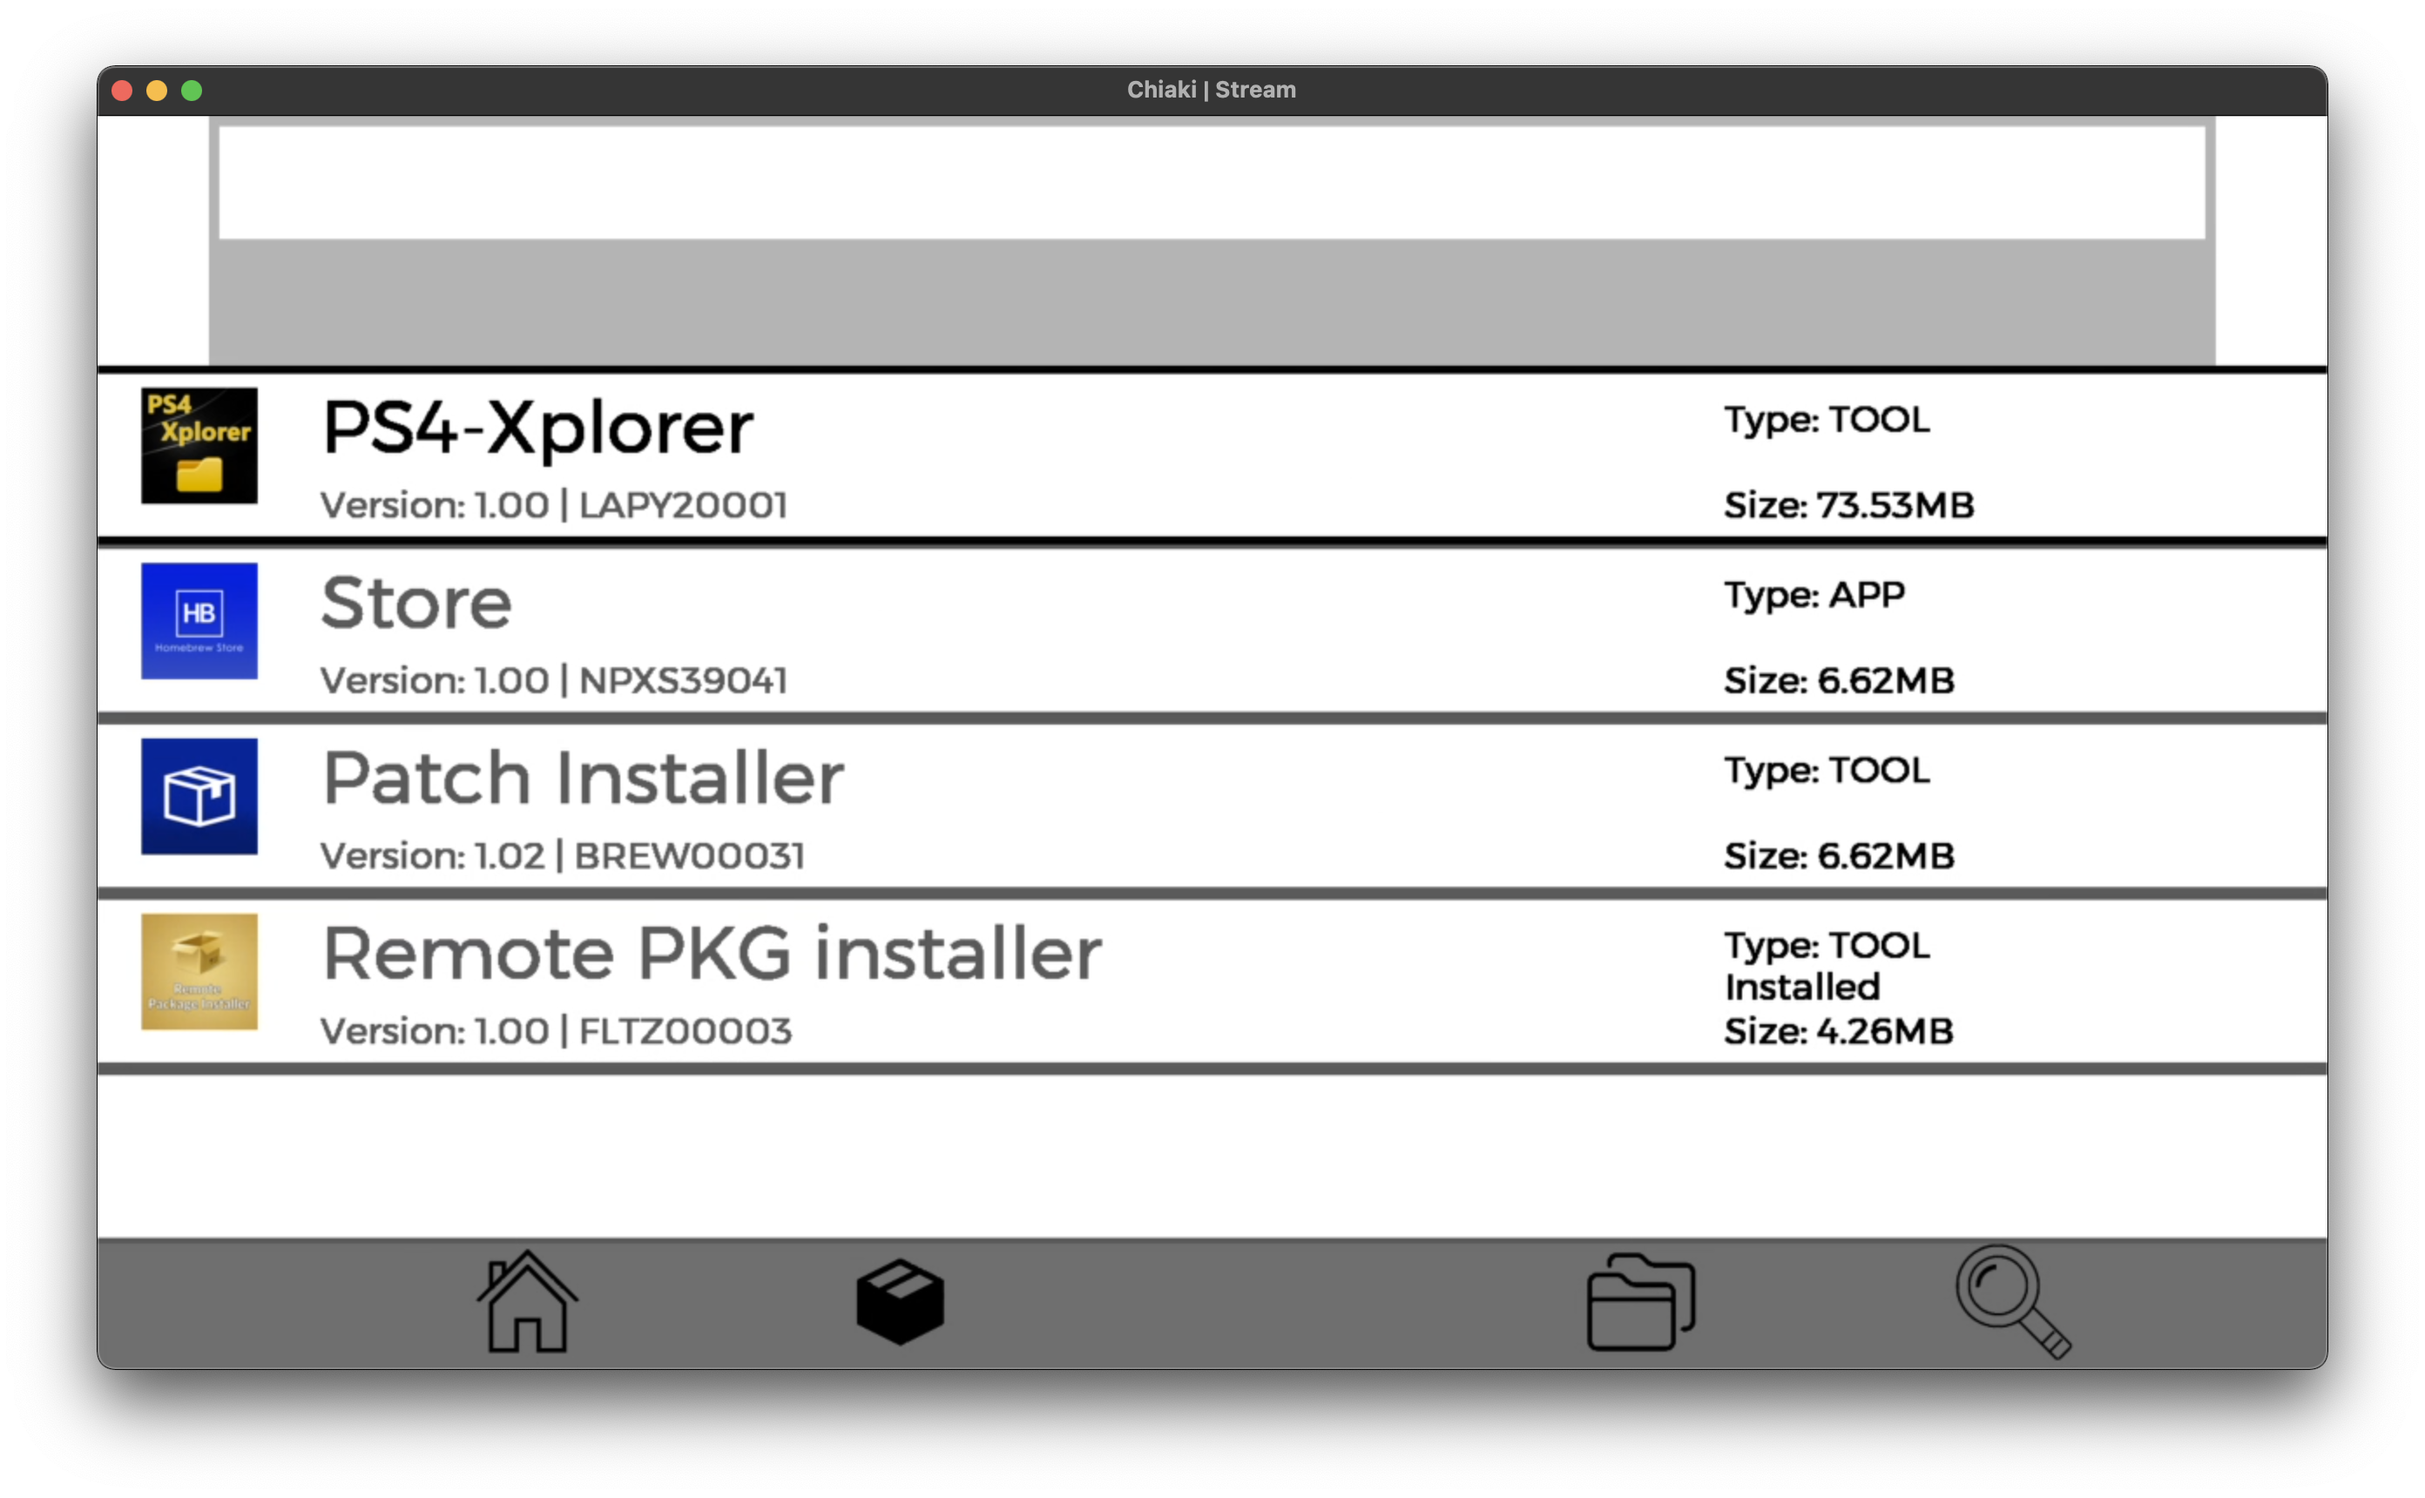
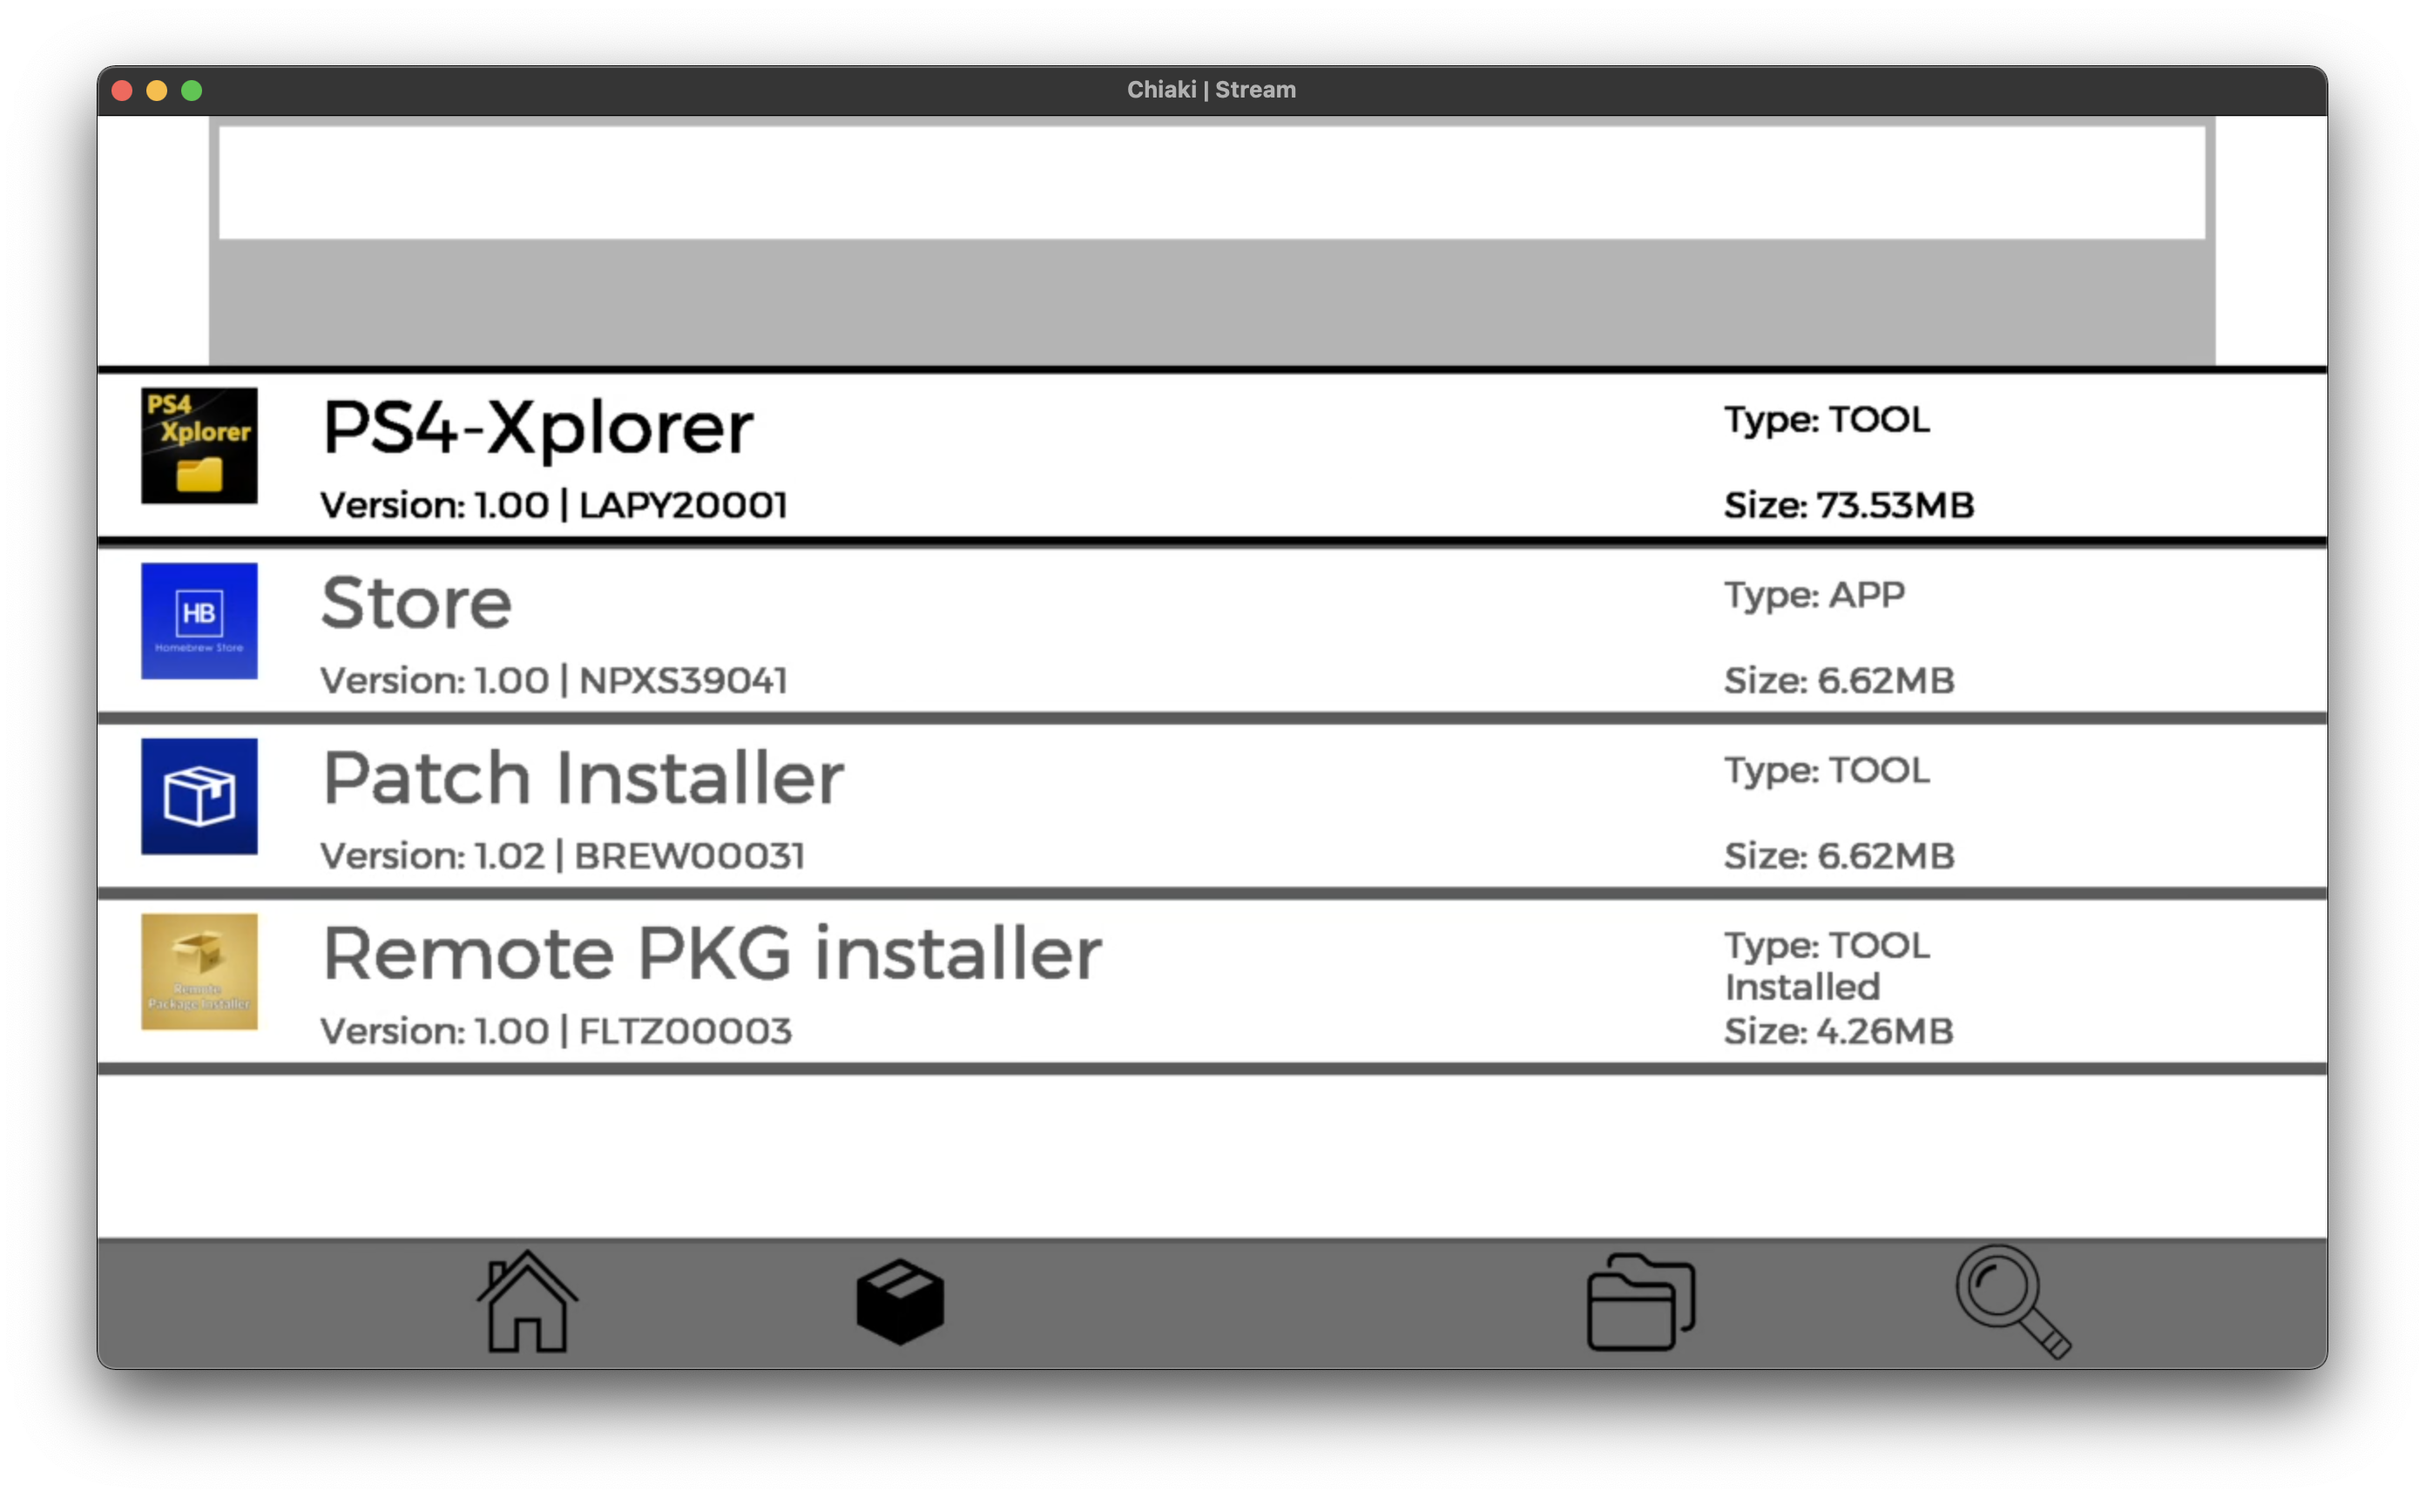
Updated Text Colors and screenshots

diff --git a/src/view/repoPackageList.cpp b/src/view/repoPackageList.cpp
@@ -94,17 +94,17 @@ void repoPackageList::updateView() {
             mainScene->DrawRectangle(0, packageRectangle.y + packageRectangle.height / 2 - rectangleDivisorHeight / 2, packageRectangle.width, rectangleDivisorHeight, textColor);
             if(currPackage != nullptr){
                 mainScene->DrawText((char *) std::string(currPackage->getName()).substr(0,PKGLIST_CHARACTER_LIMIT).c_str(), fontMedium, packageRectangle.x, packageRectangle.y,
-                                    selectedColor, textColor);
+                                    textColor, textColor);
                 printStr = "Type: ";
                 printStr+=TypeStr[currPackage->getPackageType()];
                 mainScene->DrawText((char *) printStr.c_str(), fontSmall, packageTypeX, packageRectangle.y- 1 * packageRectangle.height / 8,
-                                    selectedColor, selectedColor);
+                                    textColor, textColor);
                 printStr = "Version: ";
                 printStr += currPackage->getVersionStr();
                 printStr += " | ";
                 printStr += currPackage->getTitleID();
                 mainScene->DrawText((char *) printStr.c_str(), fontSmall, packageRectangle.x, packageRectangle.y + 3 * packageRectangle.height / 8,
-                                    selectedColor, textColor);
+                                    textColor, textColor);
                 if(currPackage->isInstalled()) {
                     if(currPackage->getVersion()>currPackage->getCurrVer()) {
                         printStr = "Update Available ";
@@ -115,12 +115,12 @@ void repoPackageList::updateView() {
                         printStr = "Installed";
                         printStr += currPackage->getSFOType();
                         mainScene->DrawText((char *) printStr.c_str(), fontSmall, packageTypeX, packageRectangle.y+ 1 * packageRectangle.height / 8,
-                                            selectedColor, selectedColor);
+                                            textColor, textColor);
                     }
                 } else if(strlen(currPackage->getSFOType())>1) {
                     printStr = currPackage->getSFOType();
                     mainScene->DrawText((char *) printStr.c_str(), fontSmall, packageTypeX, packageRectangle.y+ 1 * packageRectangle.height / 8,
-                                        selectedColor, selectedColor);
+                                        textColor, textColor);
                 }
                 currPackage->getIcon()->Draw(mainScene, repoIconX, packageRectangle.y - 3 * packageRectangle.height / 8);
                 printStr = "Size: ";
@@ -128,7 +128,7 @@ void repoPackageList::updateView() {
                 printStr += "MB";
                 mainScene->DrawText((char *) printStr.c_str(), fontSmall, packageTypeX,
                                     packageRectangle.y + 3 * packageRectangle.height / 8,
-                                    selectedColor, selectedColor);
+                                    textColor, textColor);
             }
         }
     }
@@ -155,7 +155,7 @@ void repoPackageList::updateView() {
             printStr += currPackage->getTitleID();
             mainScene->DrawText((char *) printStr.c_str(), fontSmall,
                                 packageRectangle.x, packageRectangle.y + 3 * packageRectangle.height / 8,
-                                selectedColor, textColor);
+                                selectedColor, selectedColor);
             currPackage->getIcon()->Draw(mainScene, repoIconX, packageRectangle.y - 3 * packageRectangle.height / 8);
             if(currPackage->isInstalled()) {
                 if(currPackage->getVersion()>currPackage->getCurrVer()) {

diff --git a/src/view/packageSearch.cpp b/src/view/packageSearch.cpp
@@ -106,7 +106,7 @@ void packageSearch::updateView() {
             mainScene->DrawRectangle(0, packageRectangle.y + packageRectangle.height / 2 - rectangleDivisorHeight / 2, packageRectangle.width, rectangleDivisorHeight, textColor);
             if(currPackage != nullptr){
                 mainScene->DrawText((char *) currPackage->getName(), fontMedium, packageRectangle.x, packageRectangle.y,
-                                    selectedColor, textColor);
+                                    textColor, textColor);
                 printStr = "Version: ";
                 printStr += currPackage->getVersionStr();
                 printStr += " | ";
@@ -114,12 +114,12 @@ void packageSearch::updateView() {
                 printStr += " | ";
                 printStr += currPackage->getRepoName();
                 mainScene->DrawText((char *) printStr.c_str(), fontSmall, packageRectangle.x, packageRectangle.y + 3 * packageRectangle.height / 8,
-                                    selectedColor, textColor);
+                                    textColor, textColor);
                 printStr = "Type: ";
                 printStr += TypeStr[currPackage->getPackageType()];
                 mainScene->DrawText((char *) printStr.c_str(), fontSmall, packageTypeX,
                                     packageRectangle.y - 1 * packageRectangle.height / 8,
-                                    selectedColor, textColor);
+                                    textColor, textColor);
                 currPackage->getIcon()->Draw(mainScene, repoIconX, packageRectangle.y - 3 * packageRectangle.height / 8);
                 if(currPackage->isInstalled()) {
                     if(currPackage->getVersion()>currPackage->getCurrVer()) {
@@ -129,7 +129,7 @@ void packageSearch::updateView() {
                     } else {
                         printStr = "Installed";
                         mainScene->DrawText((char *) printStr.c_str(), fontSmall, packageTypeX, packageRectangle.y+ 1 * packageRectangle.height / 8,
-                                            selectedColor, textColor);
+                                            textColor, textColor);
                     }
                 }
                 printStr = "Size: ";
@@ -137,7 +137,7 @@ void packageSearch::updateView() {
                 printStr += "MB";
                 mainScene->DrawText((char *) printStr.c_str(), fontSmall, packageTypeX,
                                     packageRectangle.y + 3 * packageRectangle.height / 8,
-                                    selectedColor, textColor);
+                                    textColor, textColor);
             }
         }
     }

diff --git a/src/view/downloadView.cpp b/src/view/downloadView.cpp
@@ -224,27 +224,27 @@ void downloadView::updateView() {
                 }
                 currDownload->getIcon()->Draw(mainScene, repoIconX, repoRectangle.y - 3 * repoRectangle.height / 8);
                 mainScene->DrawText((char *) std::string(currDownload->getName()).substr(0,DOWNLOAD_NAME_CHARACTER_LIMIT).c_str(), fontMedium, repoRectangle.x, repoRectangle.y - 1 * repoRectangle.height/8,
-                                    selectedColor, textColor);
+                                    textColor, textColor);
                 mainScene->DrawText((char *) currDownload->getTitleID(), fontSmall, repoRectangle.x, repoRectangle.y + 1 * repoRectangle.height/8,
-                                    selectedColor, textColor);
+                                    textColor, textColor);
                 mainScene->DrawText((char *) printStringStream.str().c_str(), fontSmall, repoRectangle.x, repoRectangle.y + 3 * repoRectangle.height / 8,
-                                    selectedColor, textColor);
+                                    textColor, textColor);
                 printStr = "Type: ";
                 printStr+=TypeStr[currDownload->getPackageType()];
                 mainScene->DrawText((char *) printStr.c_str(), fontSmall, packageTypeX, repoRectangle.y- 1 * repoRectangle.height / 8,
-                                    selectedColor, selectedColor);
+                                    textColor, textColor);
                 printStr = "Source: ";
                 printStr+=currDownload->getRepoName();
                 mainScene->DrawText((char *) printStr.substr(0,DOWNLOAD_CHARACTER_LIMIT).c_str(), fontSmall, packageTypeX, repoRectangle.y+ 3 * repoRectangle.height / 8,
-                                    selectedColor, selectedColor);
+                                    textColor, textColor);
                 printStr = "Download Date: ";
                 printStr+=currDownload->getDate();
                 mainScene->DrawText((char *) printStr.c_str(), fontSmall, downloadDateX, repoRectangle.y- 1 * repoRectangle.height / 8,
-                                    selectedColor, selectedColor);
+                                    textColor, textColor);
                 printStr = "Version: ";
                 printStr+=currDownload->getVersionStr();
                 mainScene->DrawText((char *) printStr.substr(0,DOWNLOAD_CHARACTER_LIMIT).c_str(), fontSmall, downloadDateX, repoRectangle.y+ 3 * repoRectangle.height / 8,
-                                    selectedColor, selectedColor);
+                                    textColor, textColor);
             }
         }
     }
